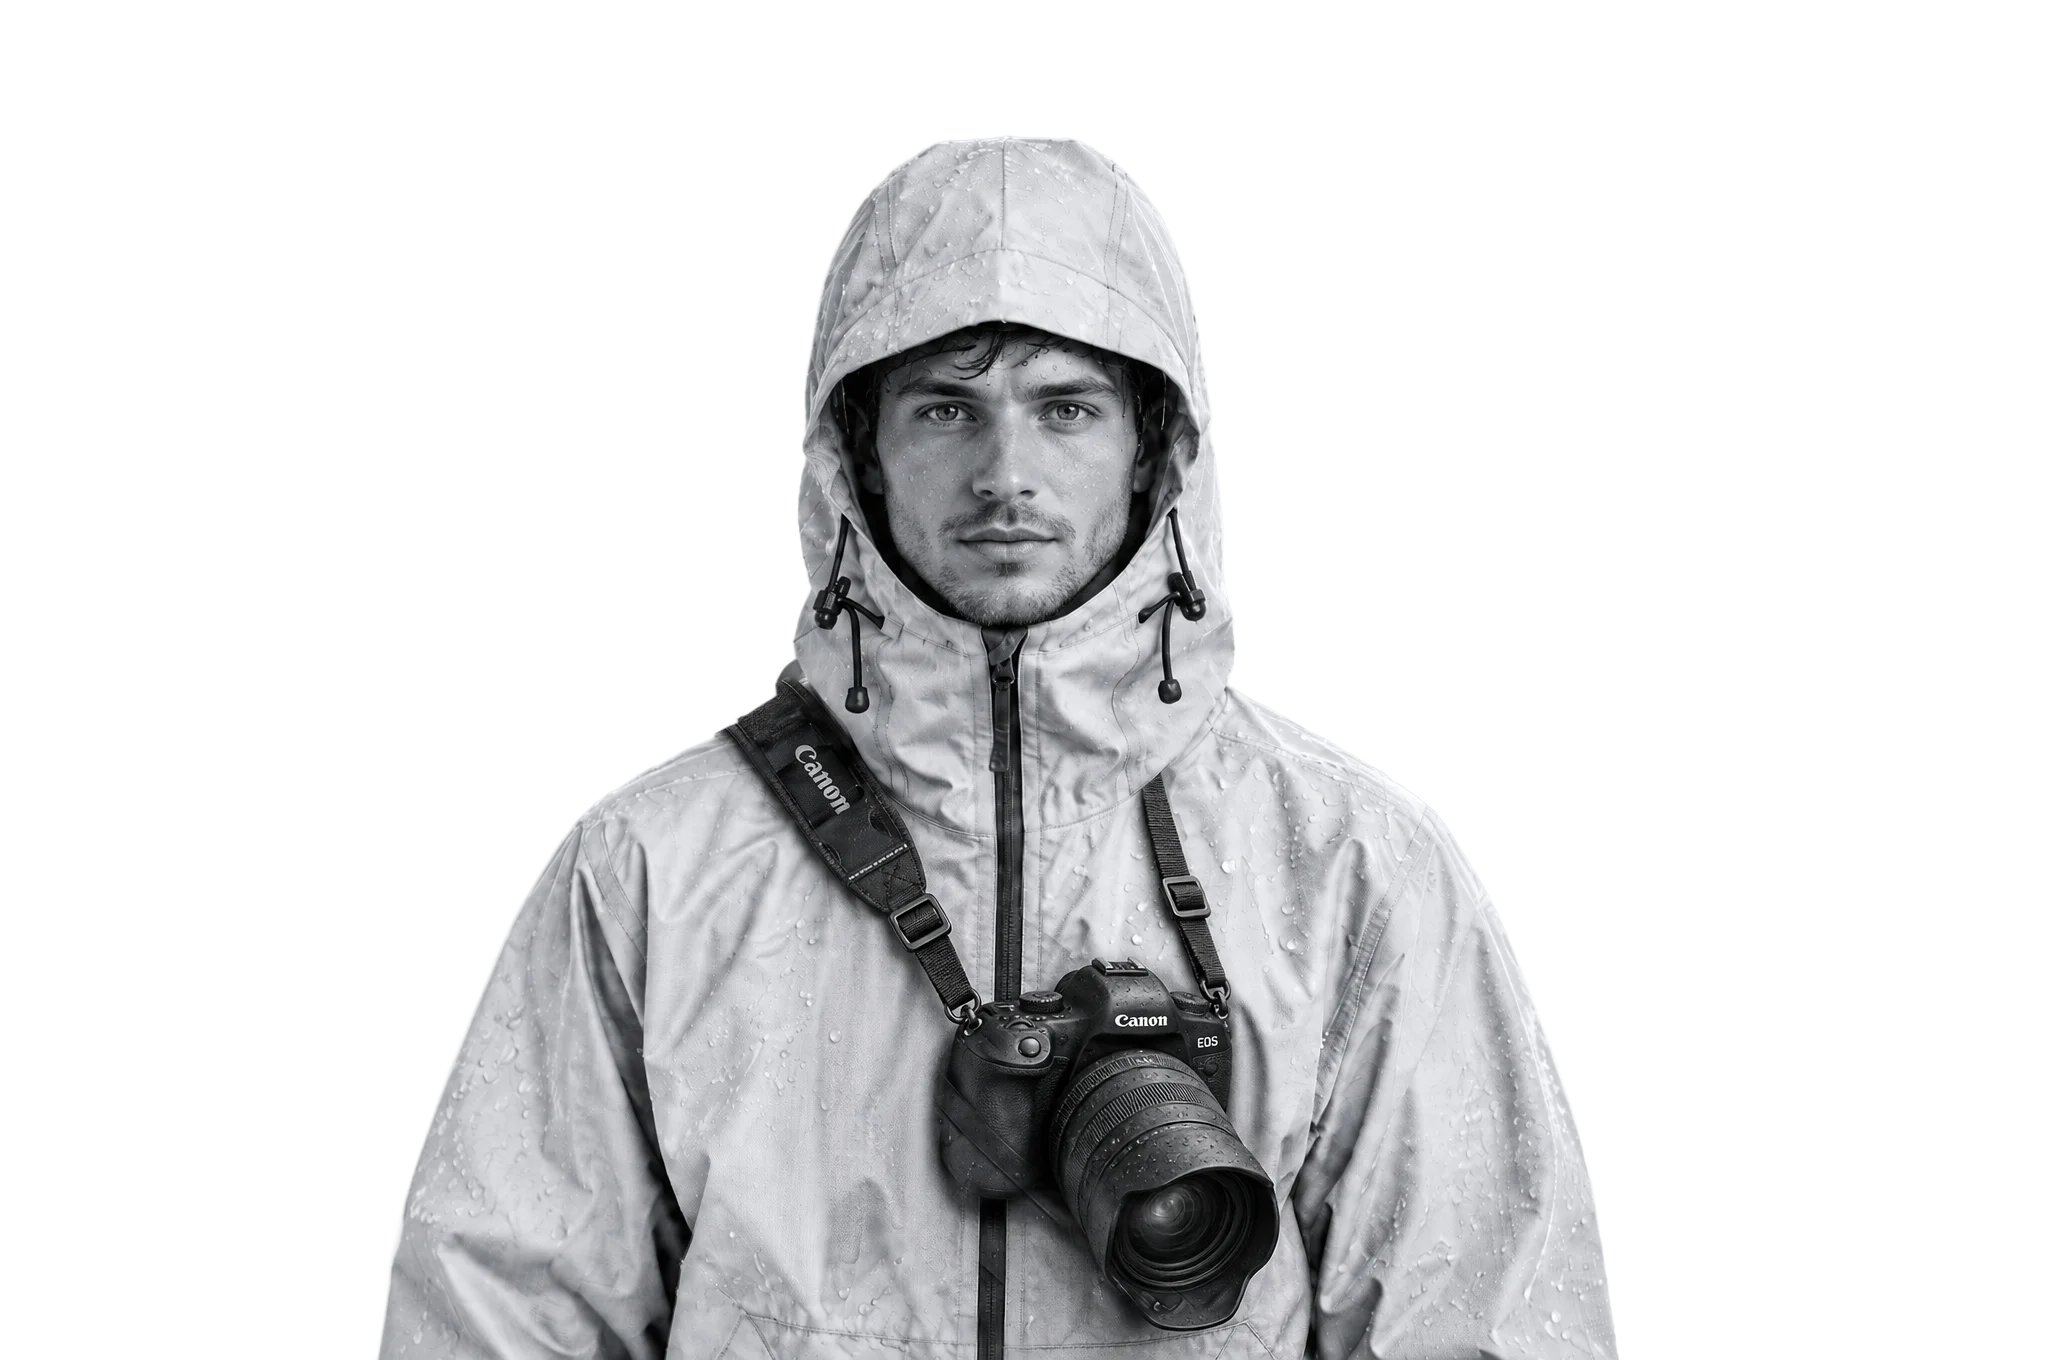
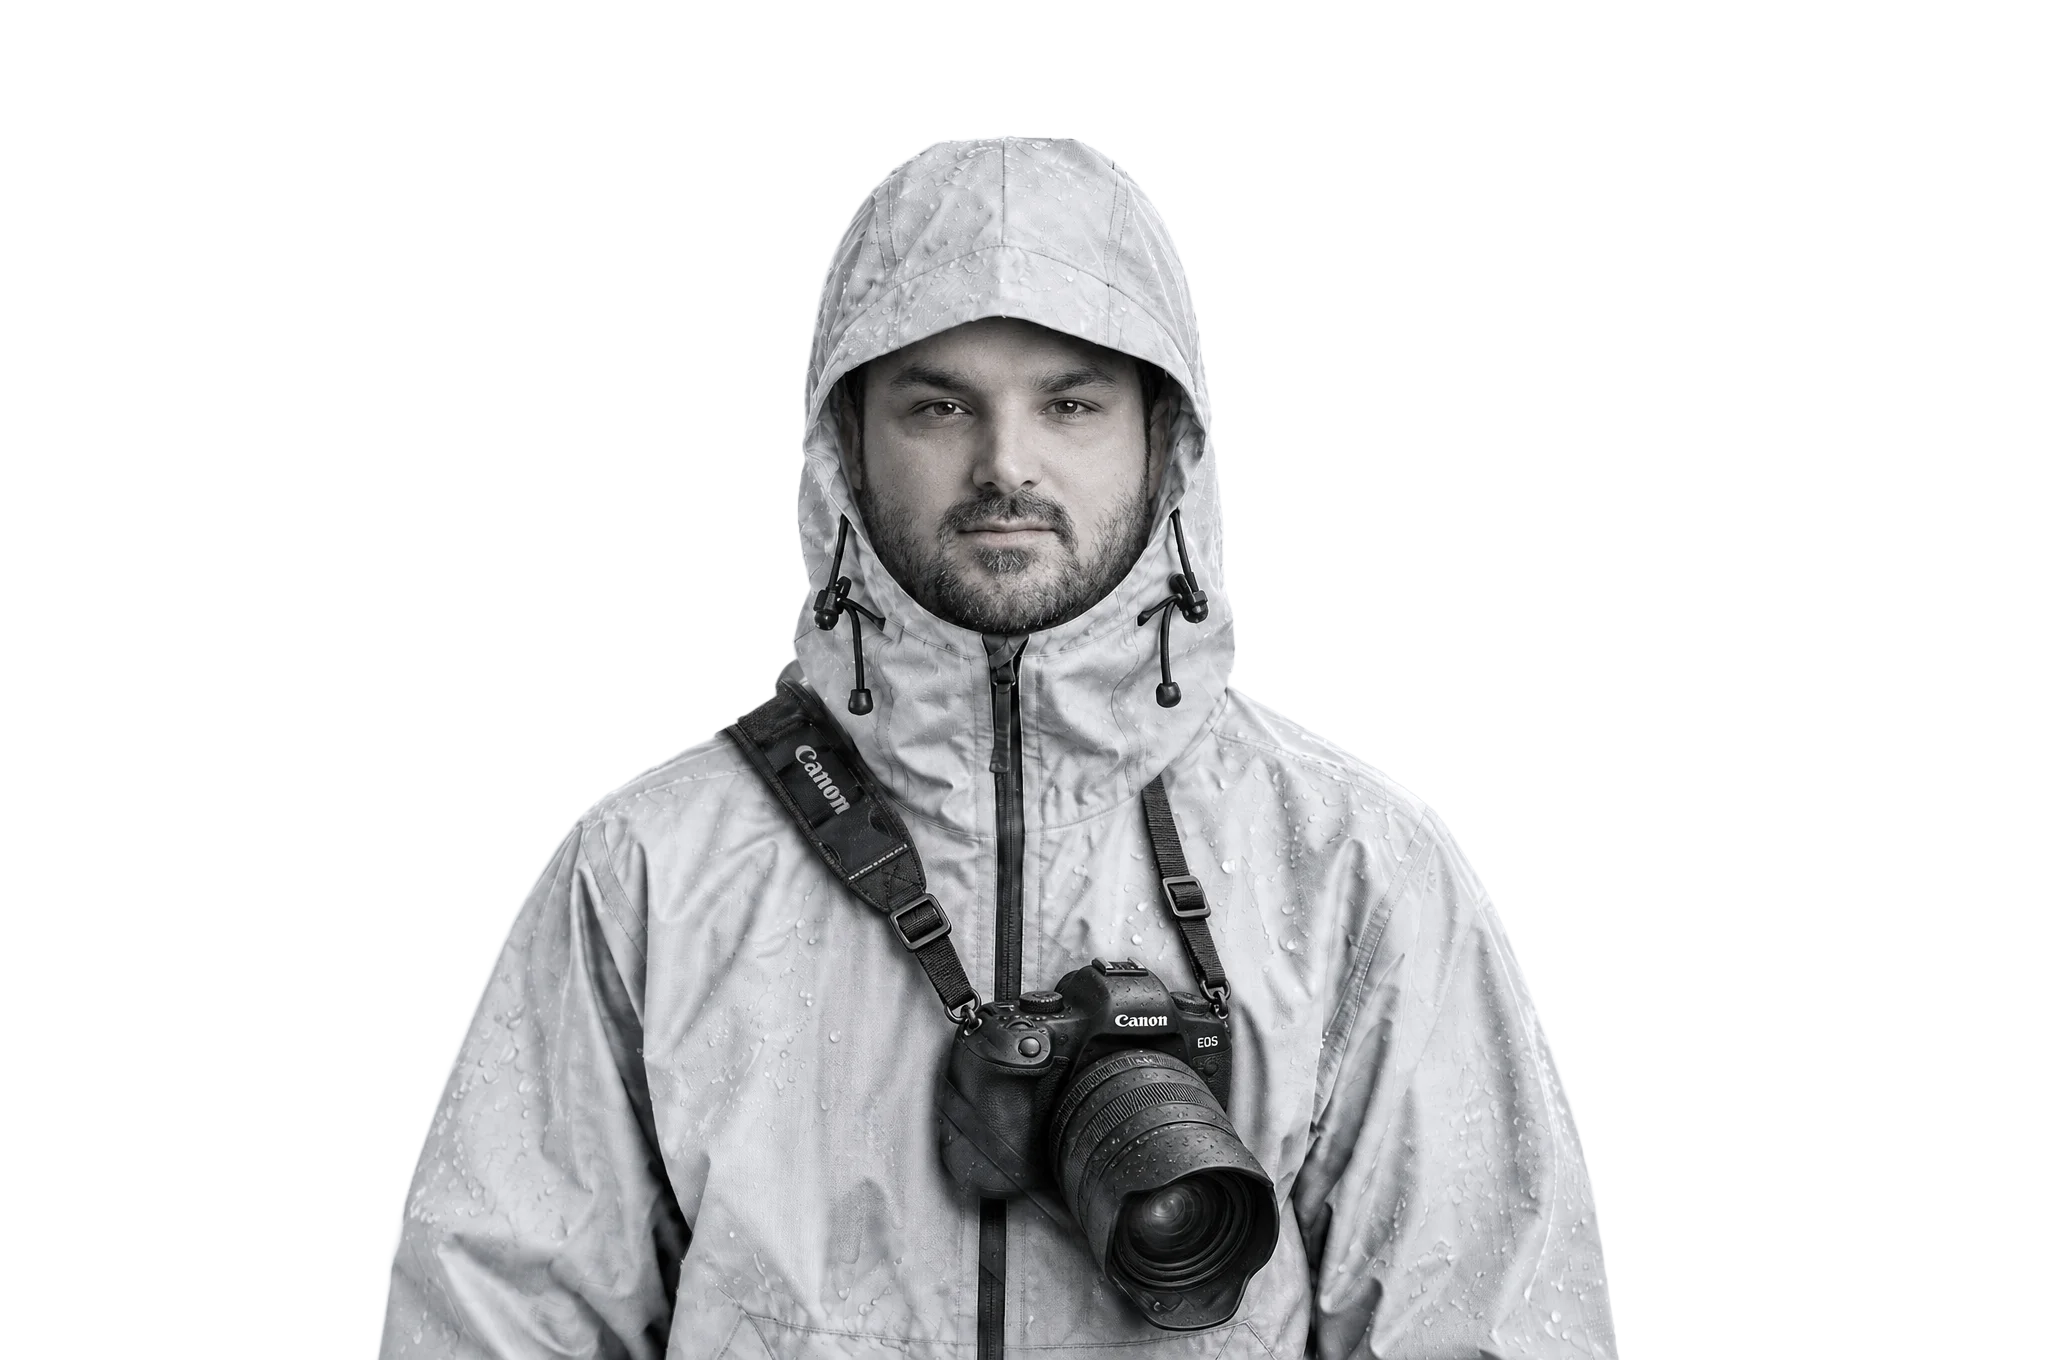
Hero: owner's face in the unmasked layer

Changed region(s): [[0.375, 0.1853, 0.5938, 0.6176], [0.4688, 0.0926, 0.5, 0.1235]]

diff --git a/index.html b/index.html
@@ -263,7 +263,7 @@ const $=s=>document.querySelector(s);
 const stage=$('#stage'), wm=$('#wm'), band=$('#wm .band'), model=$('#model'), cv=$('#gl'), tex=$('#tex');
 const card=$('.card'), hint=$('.hint'), tip=$('#tip'), spec=$('#spec'), ld=$('#ld');
 const clamp=(v,a,b)=>Math.max(a,Math.min(b,v));
-const SRC_A='assets/model-masked.webp', SRC_B='assets/model-unmasked.webp';
+const SRC_A='assets/model-masked.webp', SRC_B='assets/model-unmasked.webp?v=2';
 
 tex.style.backgroundImage=window.genContour();
 
